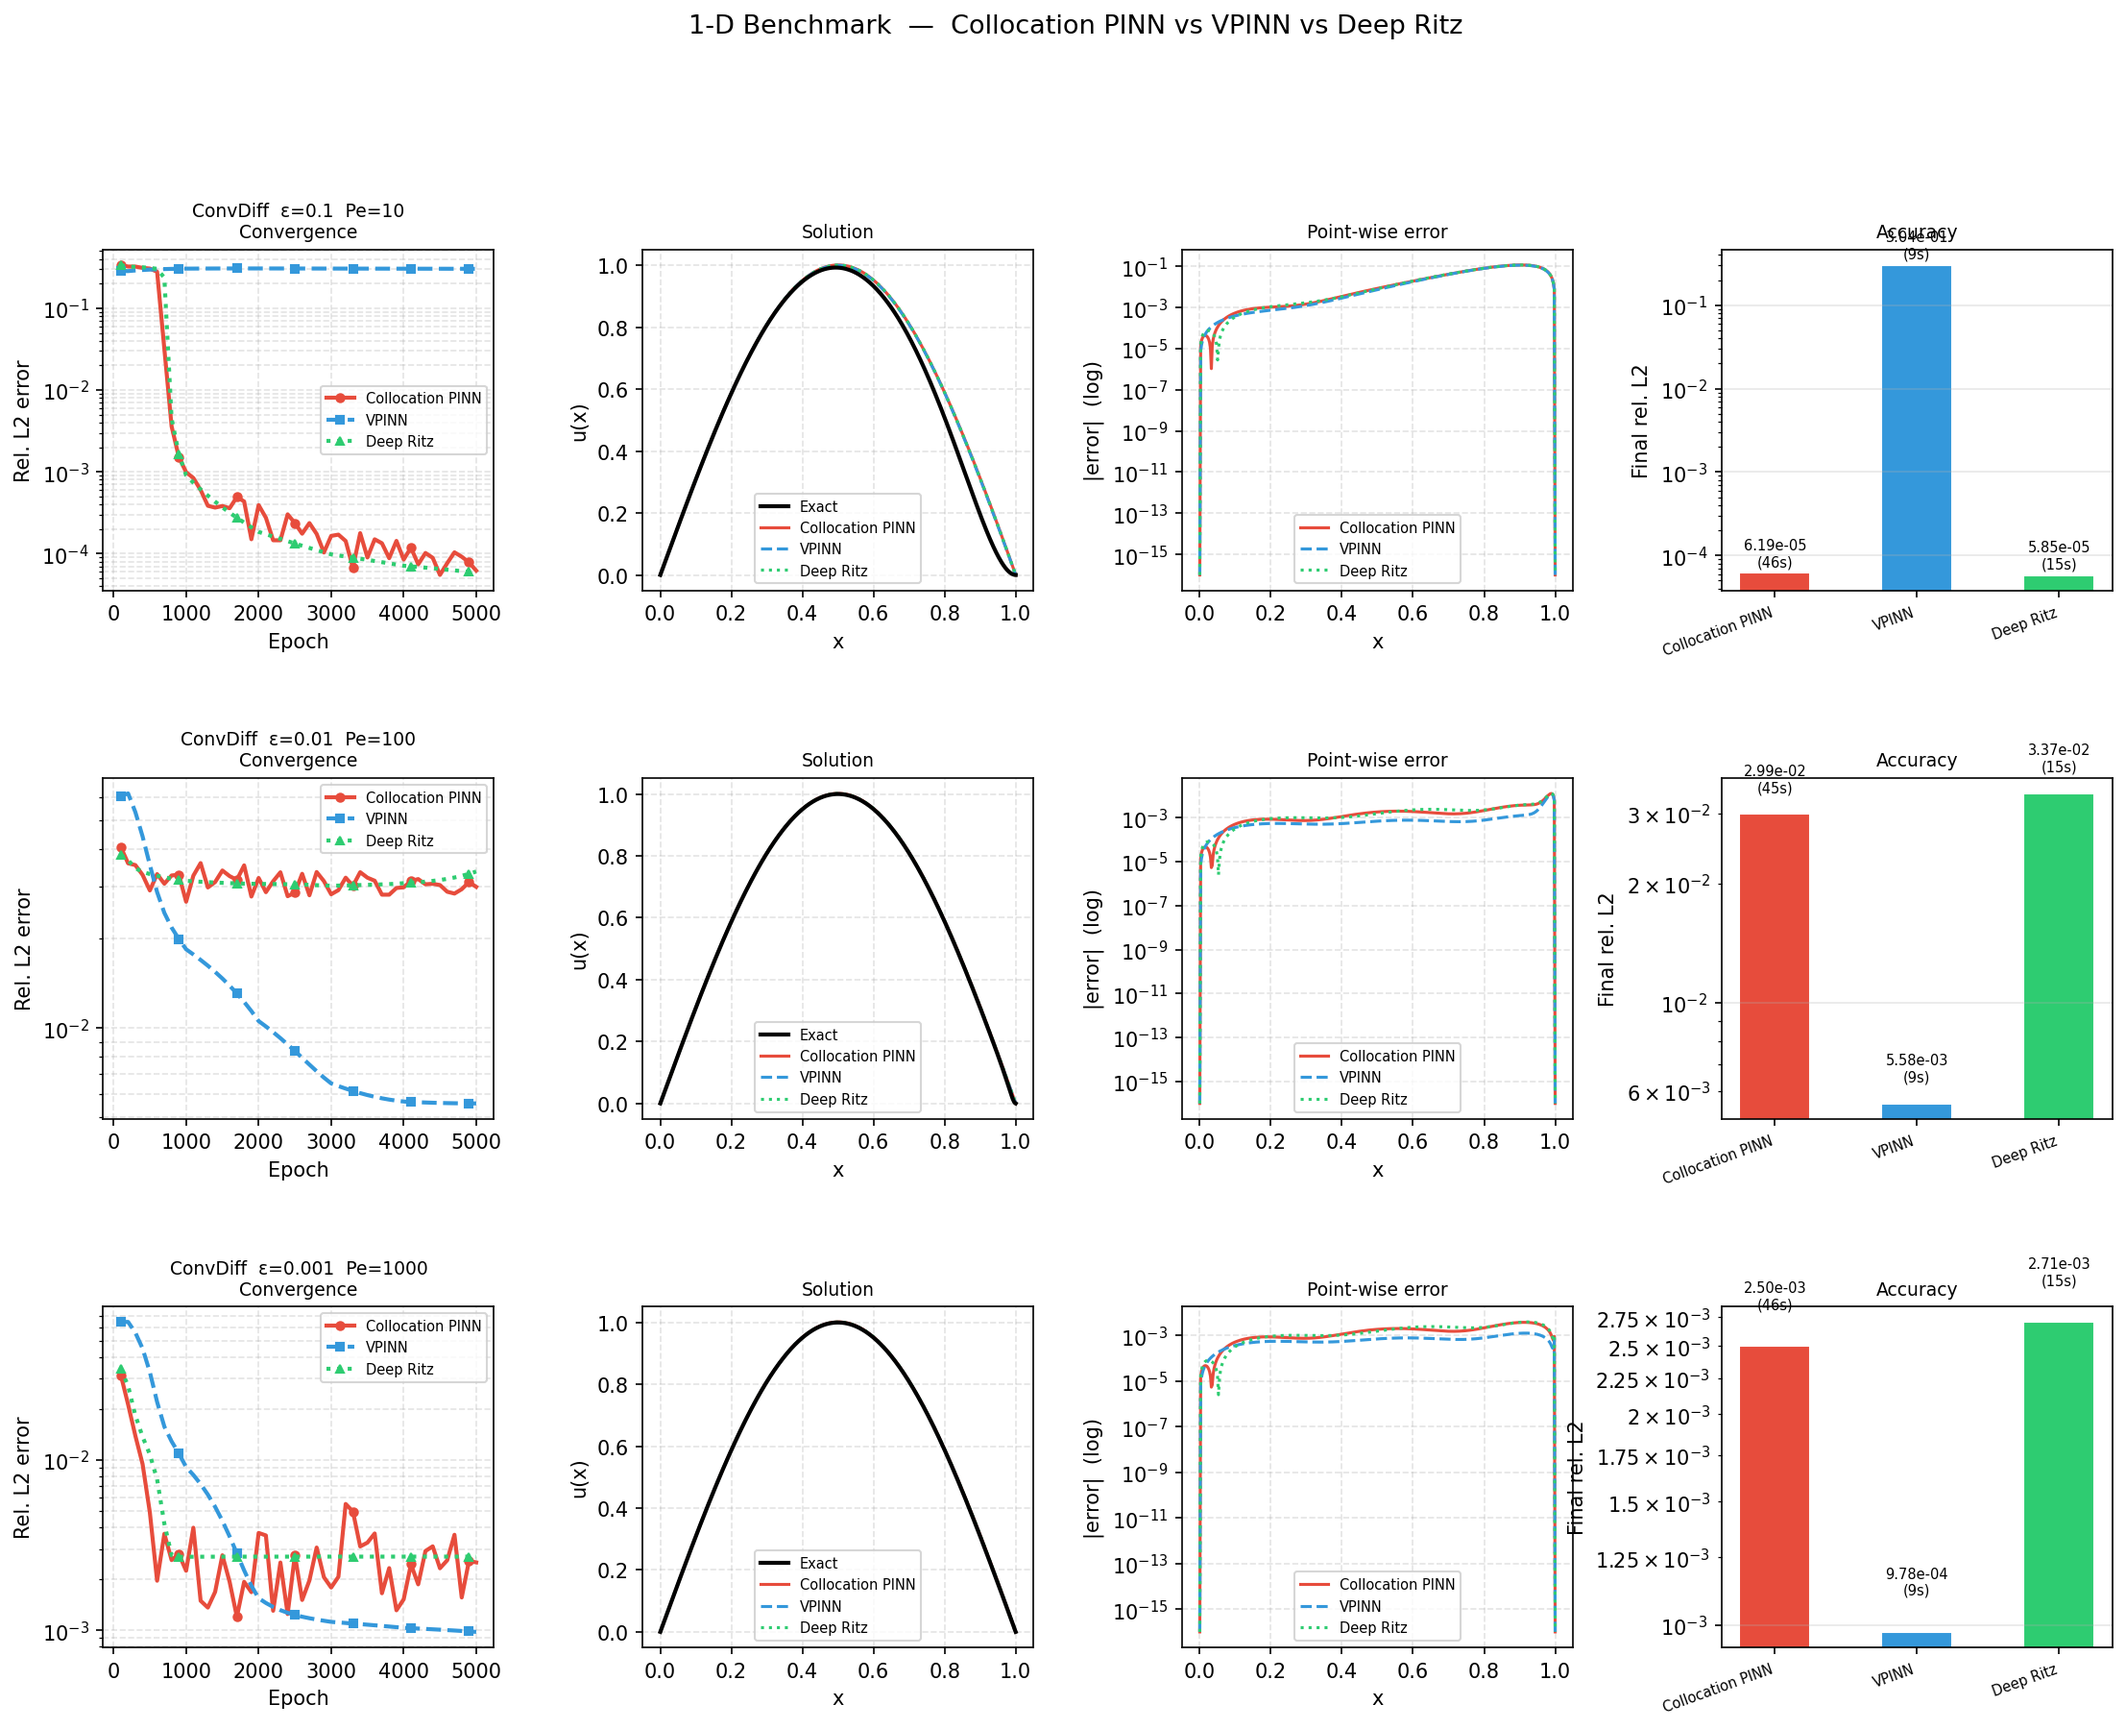
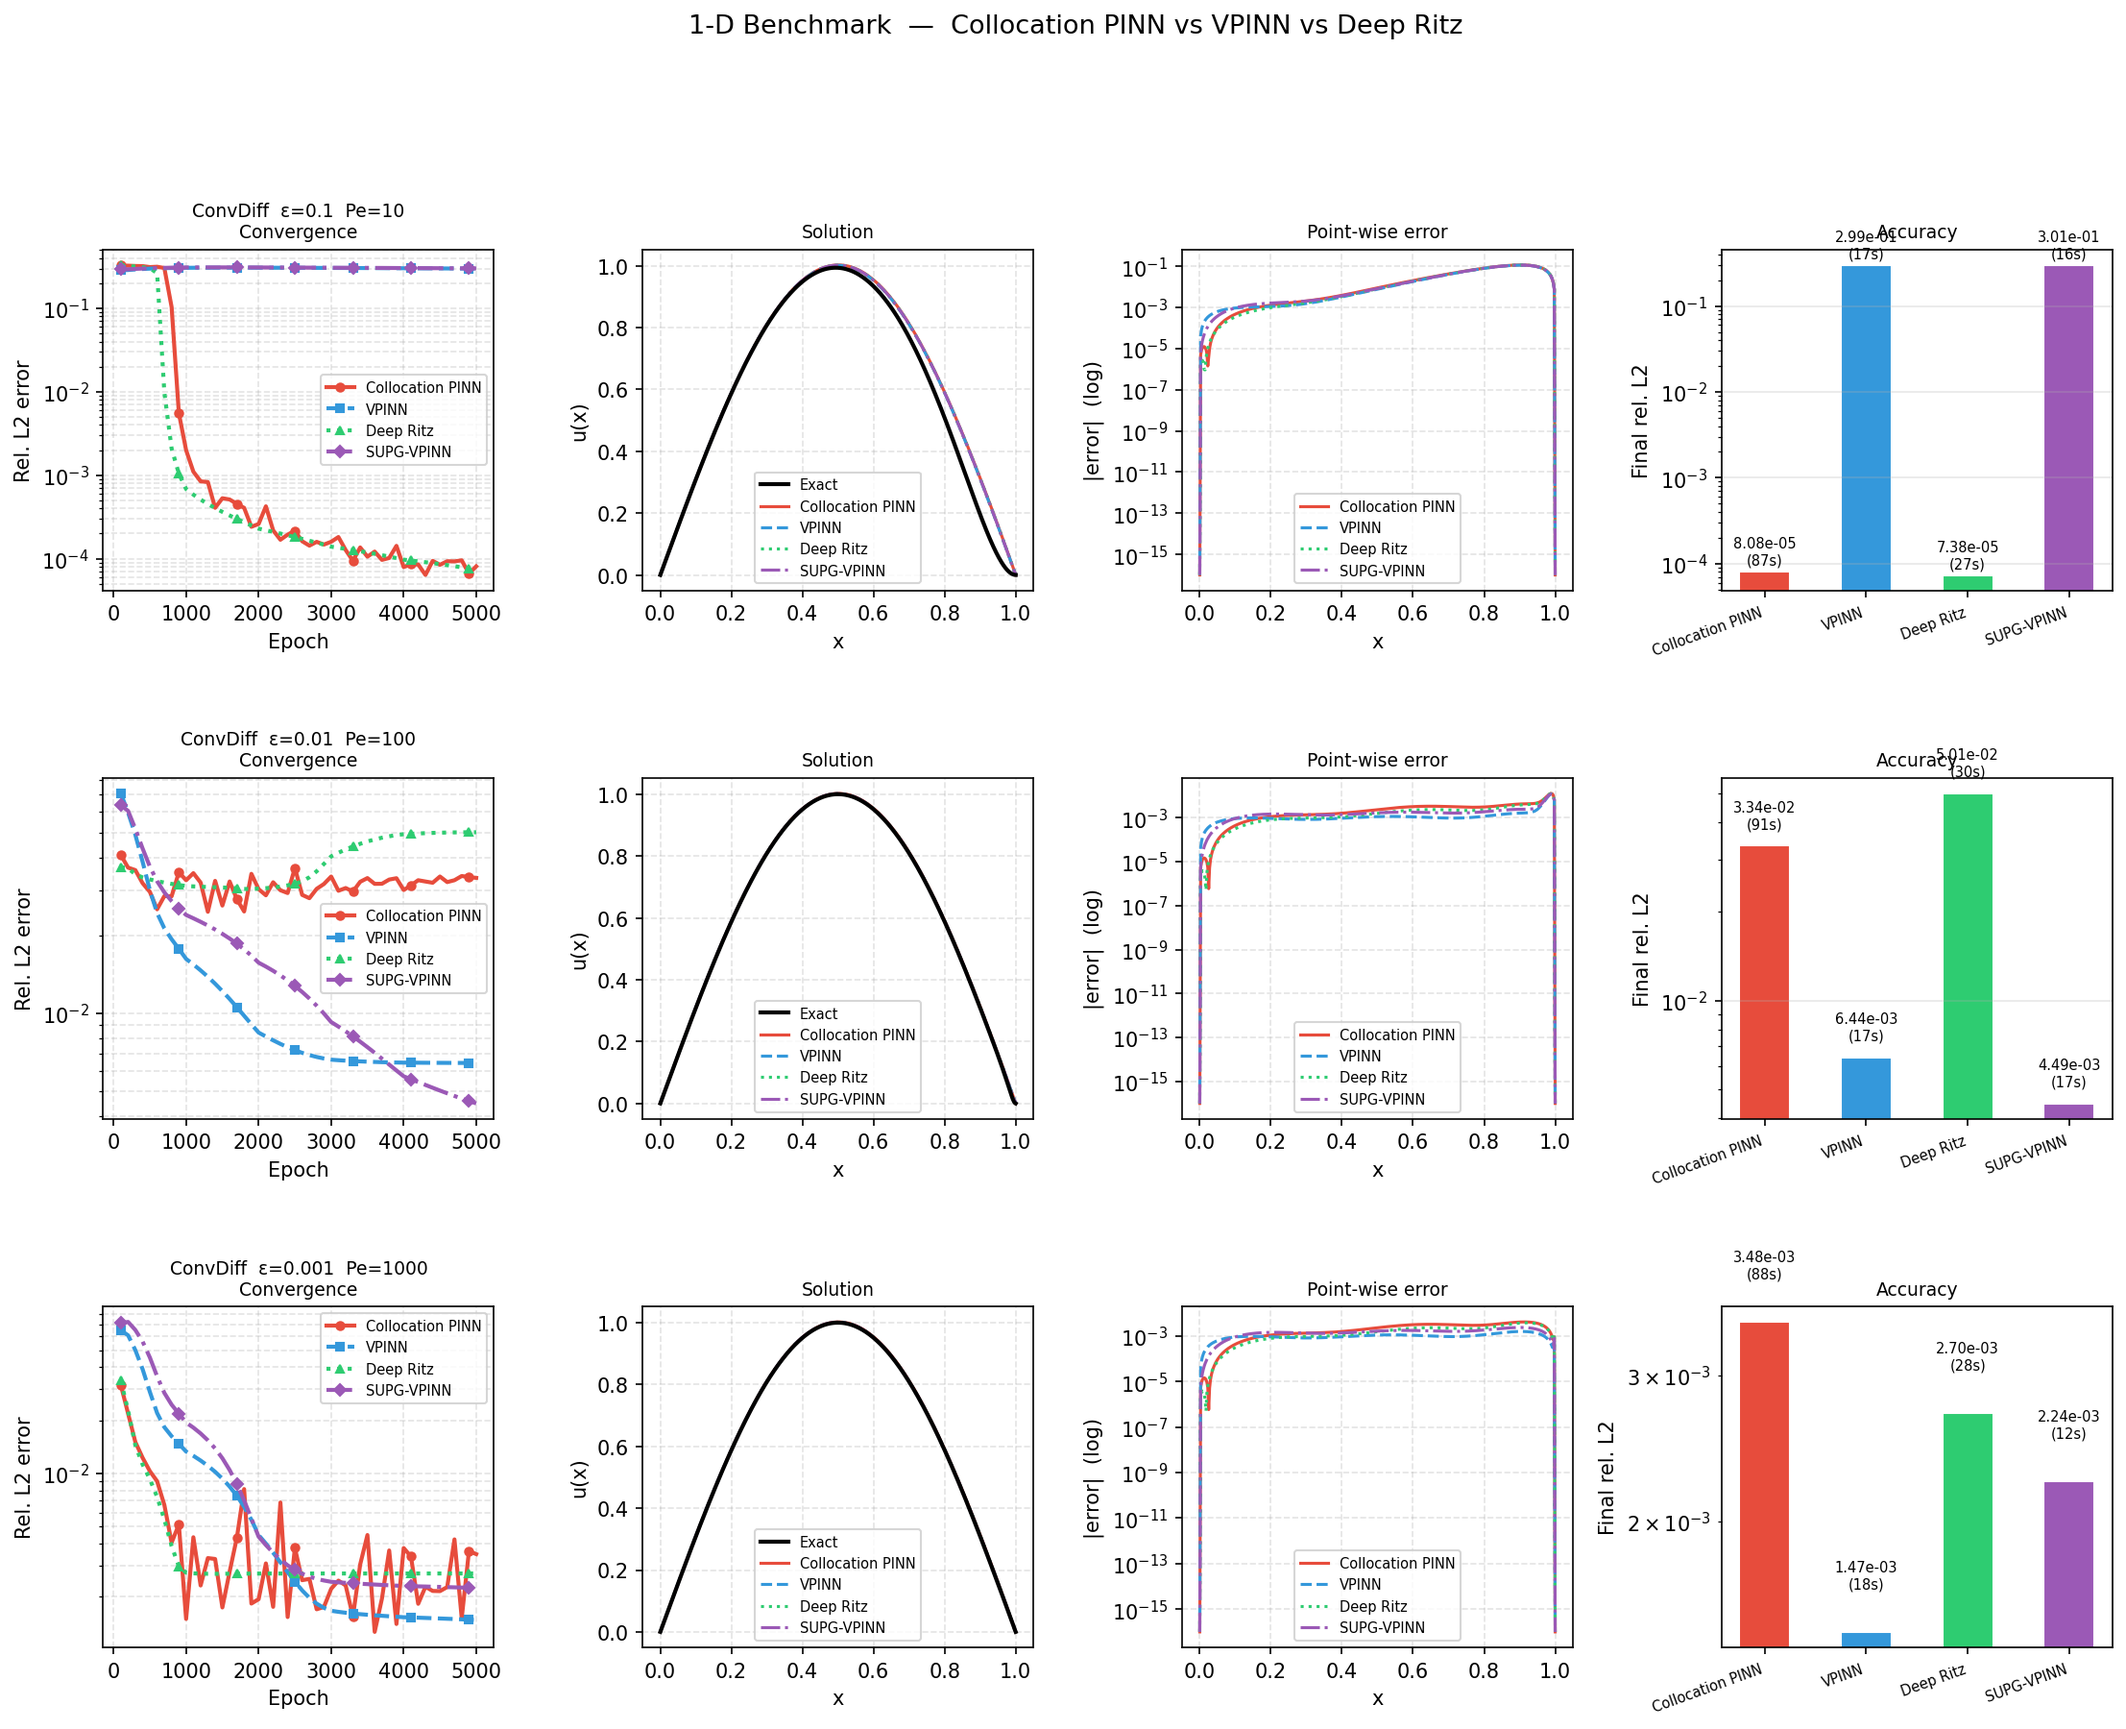
Add SUPG-VPINN solver for convection-dominated flows
Implements Streamline Upwind Petrov-Galerkin stabilization:
  v_k^* = v_k + τ·β·v_k'   (upwind-biased test functions)
  a(û, v_k^*) = ∫(ε·(v_k' + τβ·v_k'') + β·(v_k + τβ·v_k'))·û' dx
  l(v_k^*) = ∫f·(v_k + τβ·v_k') dx

v_k'' precomputed analytically using legder twice; only first-order
autograd needed during training (same cost as standard VPINN).

Auto τ: h/(2β)·ξ(Pe_h), Pe_h = β·h/(2ε), h = 1/n_test

Results vs standard VPINN (5000 epochs):
  Pe=10:   SUPG-VPINN 30.1% — still fails (τ=2e-3 too small; auto formula
           uses h=1/n_test which gives Pe_h < 1 → near-zero stabilization)
  Pe=100:  SUPG-VPINN 4.5e-3 wins (11× better than collocation; 43% better than VPINN)
  Pe=1000: SUPG-VPINN 2.2e-3 (competitive; VPINN 1.5e-3 still best here)

Pe=10 failure diagnosis: the instability is not classical Galerkin instability
(Pe_h < 1 at n_test resolution). It appears to be a non-coercive loss landscape
for the non-symmetric bilinear form — the VPINN loss can decrease while the L2
error stays constant. Deep Ritz (LS) avoids this by using the symmetric
least-squares energy and wins at Pe=10 (7.4e-5).

https://claude.ai/code/session_011pScVsRRuE8kQ5UcZJCSPK

diff --git a/pde_solvers/solvers/supg_vpinn.py b/pde_solvers/solvers/supg_vpinn.py
@@ -1,0 +1,213 @@
+"""
+SUPG-VPINN  (Streamline Upwind Petrov-Galerkin)
+================================================
+Fixes Galerkin instability of standard VPINN for convection-dominated flows.
+
+Standard VPINN uses test functions v_k that are symmetric — they treat upstream
+and downstream equally.  For large Péclet number (β/ε >> 1) this causes the
+same spurious-oscillation instability seen in classical Galerkin FEM.
+
+SUPG remedy: perturb each test function by a small upwind bias:
+
+    v_k^*(x) = v_k(x) + τ · β · v_k'(x)
+
+where τ is the SUPG stabilisation parameter (units: time).  The extra term
+adds weight *upstream* of each test-function support, which mirrors how
+information flows in convection-dominated problems.
+
+Modified bilinear form (1-D, -ε·u'' + β·u' = f):
+    a(û, v_k^*) = ∫ ε·û'·(v_k' + τβ·v_k'') dx
+                + ∫ β·û'·(v_k  + τβ·v_k' ) dx
+
+Modified RHS:
+    l(v_k^*) = ∫ f · (v_k + τβ·v_k') dx
+
+v_k'' is precomputed analytically; only first-order autograd of û is needed.
+For β=0 (Poisson) the scheme reduces exactly to standard VPINN.
+
+Stabilisation parameter (classical 1-D formula):
+    Pe_h = β · h / (2ε),   h = 1/n_test  (effective mode width)
+    ξ(Pe) = coth(Pe) − 1/Pe   (Langevin / upwinding function)
+    τ = h / (2β) · ξ(Pe_h)
+
+    Large Pe:  ξ → 1  →  τ ≈ h/(2β)   (full upwinding)
+    Small Pe:  ξ ≈ Pe/3  →  τ ≈ h²/(6ε)  (diffusion-dominated, small)
+"""
+
+import time
+import numpy as np
+import torch
+from torch.autograd import Variable
+from numpy.polynomial.legendre import leggauss, legval, legder
+
+from ..network import FCNet
+
+
+class SUPG_VPINN:
+
+    name = "SUPG-VPINN"
+
+    def __init__(self,
+                 n_quad:     int   = 100,
+                 n_test:     int   = 20,
+                 activation: str   = 'tanh',
+                 lr:         float = 1e-3,
+                 step_size:  int   = 1000,
+                 gamma:      float = 0.5,
+                 tau:        float = None):   # None = auto from problem params
+        self.n_quad    = n_quad
+        self.n_test    = n_test
+        self.activation = activation
+        self.lr        = lr
+        self.step_size = step_size
+        self.gamma     = gamma
+        self.tau_user  = tau   # user override; None = auto
+
+    # ── quadrature + test-function setup ─────────────────────────
+
+    def _setup_1d(self, eps: float, beta: float):
+        """
+        GL quadrature on [0,1] and precomputed v_k, v_k', v_k'' at
+        every quadrature point.
+
+        v_k = φ·L_{k+1}(z),    φ = x(1-x),  z = 2x-1
+        v_k'  = φ'·L + 2φ·L'
+        v_k'' = -2·L + 4φ'·L' + 4φ·L''      (φ'' = -2)
+        """
+        pts, wts = leggauss(self.n_quad)
+        xq = (pts + 1.0) / 2.0
+        wq = wts / 2.0
+
+        self.x_quad = torch.tensor(xq[:, None], dtype=torch.float32)
+        self.w_quad = torch.tensor(wq,           dtype=torch.float32)
+
+        z    = 2.0 * xq - 1.0
+        phi  = xq * (1.0 - xq)
+        dphi = 1.0 - 2.0 * xq       # φ'
+        # φ'' = -2  (constant)
+
+        Nq, Nt = len(xq), self.n_test
+        v   = np.zeros((Nt, Nq))
+        dv  = np.zeros((Nt, Nq))
+        d2v = np.zeros((Nt, Nq))
+
+        for k in range(Nt):
+            deg  = k + 1
+            c    = np.zeros(deg + 1);  c[deg]  = 1.0
+            dc   = legder(c)
+            ddc  = legder(dc)
+            Lk   = legval(z, c)
+            dLk  = legval(z, dc)    # dL/dz
+            d2Lk = legval(z, ddc)   # d²L/dz²
+
+            v[k]   = phi  * Lk
+            dv[k]  = dphi * Lk + phi * dLk * 2.0
+            d2v[k] = (-2.0) * Lk + 4.0 * dphi * dLk + 4.0 * phi * d2Lk
+
+        self.v_vals  = torch.tensor(v,   dtype=torch.float32)   # (Nt, Nq)
+        self.dv_dx   = torch.tensor(dv,  dtype=torch.float32)   # (Nt, Nq)
+        self.d2v_dx2 = torch.tensor(d2v, dtype=torch.float32)   # (Nt, Nq)
+
+        # ── SUPG stabilisation parameter τ ────────────────────────
+        if self.tau_user is not None:
+            self.tau = self.tau_user
+        else:
+            h    = 1.0 / max(self.n_test, 1)
+            babs = abs(beta)
+            if babs < 1e-12:
+                self.tau = 0.0          # pure diffusion → standard VPINN
+            else:
+                Pe_h = babs * h / (2.0 * max(eps, 1e-12))
+                if Pe_h < 1e-8:
+                    xi = Pe_h / 3.0     # small-Pe limit: ξ ≈ Pe/3
+                else:
+                    xi = 1.0 / np.tanh(Pe_h) - 1.0 / Pe_h   # coth(Pe) - 1/Pe
+                self.tau = h / (2.0 * babs) * xi
+
+    # ── public API ───────────────────────────────────────────────
+
+    def solve(self, problem, epochs: int = 5000,
+              log_every: int = 500) -> dict:
+
+        assert problem.dim == 1, "SUPG-VPINN currently supports 1-D only."
+
+        eps  = getattr(problem, 'eps',  1.0)
+        beta = getattr(problem, 'beta', 0.0)
+
+        self._setup_1d(eps, beta)
+        tau = self.tau
+
+        layers    = problem.default_layers()
+        net       = FCNet(layers, self.activation)
+        optimizer = torch.optim.Adam(net.parameters(), lr=self.lr)
+        scheduler = torch.optim.lr_scheduler.StepLR(
+            optimizer, step_size=self.step_size, gamma=self.gamma)
+
+        x_test, u_test = problem.test_grid()
+
+        with torch.no_grad():
+            f_quad = problem.source_f(self.x_quad).squeeze()   # (Nq,)
+
+        # Precompute SUPG-modified test-function coefficients (fixed)
+        # v^* = v + τβ·v'      →  coefficients for RHS
+        # (v^*)' = v' + τβ·v'' →  coefficients for LHS diffusion term
+        tb = tau * beta
+        v_star    = self.v_vals + tb * self.dv_dx        # (Nt, Nq)
+        dv_star   = self.dv_dx  + tb * self.d2v_dx2     # (Nt, Nq)
+
+        # LHS coefficient combined:  ε·(v^*)' + β·v^*
+        lhs_coeff = eps * dv_star + beta * v_star        # (Nt, Nq)
+
+        history = dict(epoch=[], loss_pde=[], l2_err=[], time=[])
+        t0 = time.time()
+
+        if log_every <= epochs:
+            print(f"    τ = {tau:.3e}  (Pe_h = {abs(beta)/(self.n_test * max(eps,1e-12)):.2f})")
+
+        for epoch in range(1, epochs + 1):
+            net.train()
+
+            x_var = Variable(self.x_quad, requires_grad=True)
+            u_hat = problem.mollifier(x_var) * net(x_var)   # (Nq, 1)
+
+            u_grad = torch.autograd.grad(
+                u_hat, x_var, torch.ones_like(u_hat), create_graph=True)[0]
+
+            du = u_grad[:, 0]       # (Nq,)
+            w  = self.w_quad        # (Nq,)
+
+            # a(û, v^*) = ∫ (ε·(v^*)' + β·v^*) · û' dx
+            lhs = torch.sum(w * lhs_coeff * du, dim=-1)   # (Nt,)
+            # l(v^*) = ∫ f · v^* dx
+            rhs = torch.sum(w * v_star * f_quad, dim=-1)  # (Nt,)
+
+            loss = torch.mean((lhs - rhs) ** 2)
+
+            optimizer.zero_grad()
+            loss.backward()
+            optimizer.step()
+            scheduler.step()
+
+            if epoch % 100 == 0:
+                net.eval()
+                with torch.no_grad():
+                    u_p = problem.mollifier(x_test) * net(x_test)
+                    l2  = problem.l2_rel(u_p, u_test)
+                history['epoch'].append(epoch)
+                history['loss_pde'].append(loss.item())
+                history['l2_err'].append(l2)
+                history['time'].append(time.time() - t0)
+
+                if epoch % log_every == 0:
+                    lr_now = optimizer.param_groups[0]['lr']
+                    print(f"    epoch {epoch:5d} | supg={loss.item():.3e}"
+                          f" | l2={l2:.4e} | lr={lr_now:.1e}")
+
+        self.net     = net
+        self.problem = problem
+        return history
+
+    def predict(self, x: torch.Tensor) -> torch.Tensor:
+        self.net.eval()
+        with torch.no_grad():
+            return self.problem.mollifier(x) * self.net(x)

diff --git a/pde_solvers/benchmark.py b/pde_solvers/benchmark.py
@@ -24,12 +24,14 @@ from .problems import SmoothPoisson1D, LayerPoisson1D, OscPoisson1D, ConvDiff1D
 from .solvers.collocation import CollocationPINN
 from .solvers.vpinn import VPINN
 from .solvers.deep_ritz import DeepRitz
+from .solvers.supg_vpinn import SUPG_VPINN
 
 # ── colour registry (extend as new solvers are added) ────────────
 _STYLE = {
     'Collocation PINN': dict(color='#e74c3c', marker='o', ls='-',  lw=2),
     'VPINN':            dict(color='#3498db', marker='s', ls='--', lw=2),
     'Deep Ritz':        dict(color='#2ecc71', marker='^', ls=':',  lw=2),
+    'SUPG-VPINN':       dict(color='#9b59b6', marker='D', ls='-.',  lw=2),
 }
 
 
@@ -195,6 +197,7 @@ def main():
         CollocationPINN(n_interior=3000),
         VPINN(n_quad=100, n_test=20),
         DeepRitz(n_quad=100),
+        SUPG_VPINN(n_quad=100, n_test=20),
     ]
 
     print(f"\n{'#'*60}")
